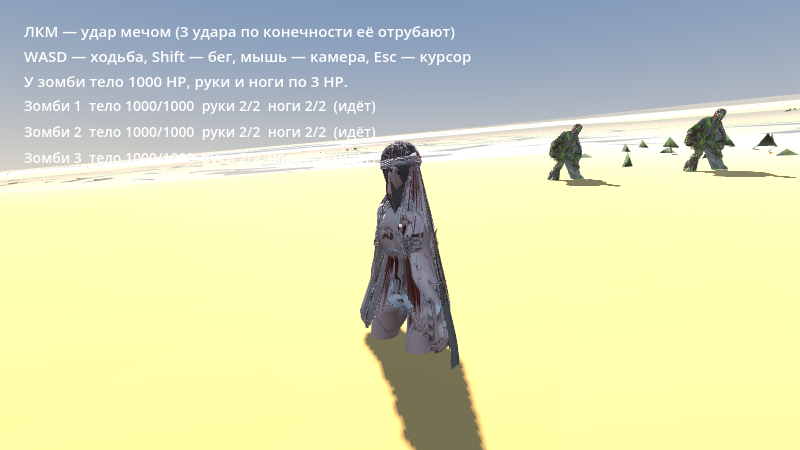
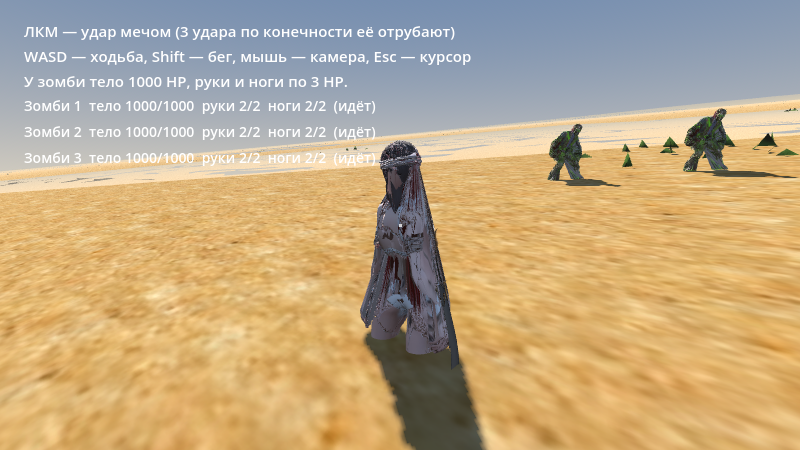
docs: README — проверка в движке, правки материала острова, кадры

diff --git a/game/README.md b/game/README.md
@@ -115,8 +115,30 @@ game/
   смерть читаются, но это не AAA-анимация.
 * Текстуры персонажей — исходные AI-ассеты 4096², они «грязные» с самого начала
   (пятна на коже). Уменьшены до 2048² для веса.
-* В песочнице, где собирались ассеты, не было бинарника Godot, поэтому
-  `.gd` проверены линтером (`gdlint`) и логика выверена численно (позы, контакты
-  с землёй, скиннинг проверен офлайн-рендером кадров), но **сам проект в движке
-  не запускался**. Если что-то в сцене поведёт себя не так — первым делом
-  смотрите `sword_offset` у меча и `MODEL_SCALE`.
+* `island.glb` — один меш на 20×20 км с UV 0..1 на всю карту: у арены один
+  тексель исходного атласа покрывает ~5 м, поэтому текстура там не читается.
+  Игра подменяет её бесшовной плиткой земли (`tools/make_ground_tile.py`,
+  8 м на повтор), растительность и островки получают вершинные цвета —
+  `main.gd → _fix_island_materials()`. Это осознанная правка материала,
+  а не оригинальный атлас.
+* Дальний план (океан + горизонт) на llvmpipe выглядит выбеленным: небо у
+  горизонта светлое, а скриншоты сняты без HDR/сглаживания. На обычной видеокарте
+  контраст выше.
+
+## Проверка в движке
+
+Проект прогоняется в реальном Godot через GitHub Actions
+(`.github/workflows/godot-check.yml`): импорт, `--check-only` по всем скриптам,
+`tests/check.gd` (77 проверок) и пять кадров из живой сцены (`tests/shots.gd`,
+xvfb + llvmpipe, 800×450). Результат — `ci/report.md` и `ci/shots/*.png`,
+кадры в `game/preview/engine_*.png`.
+
+```
+godot --headless --path game --import
+godot --headless --path game --quit-after 30000 --script res://tests/check.gd
+SHOT_DIR=/tmp/shots xvfb-run -a godot --path game --resolution 800x450 \
+    --rendering-driver opengl3 --script res://tests/shots.gd
+```
+
+На момент последней проверки: Godot 4.3.stable, **77 проверок, 0 провалов**,
+импорт с единственным безобидным предупреждением про LOD.
